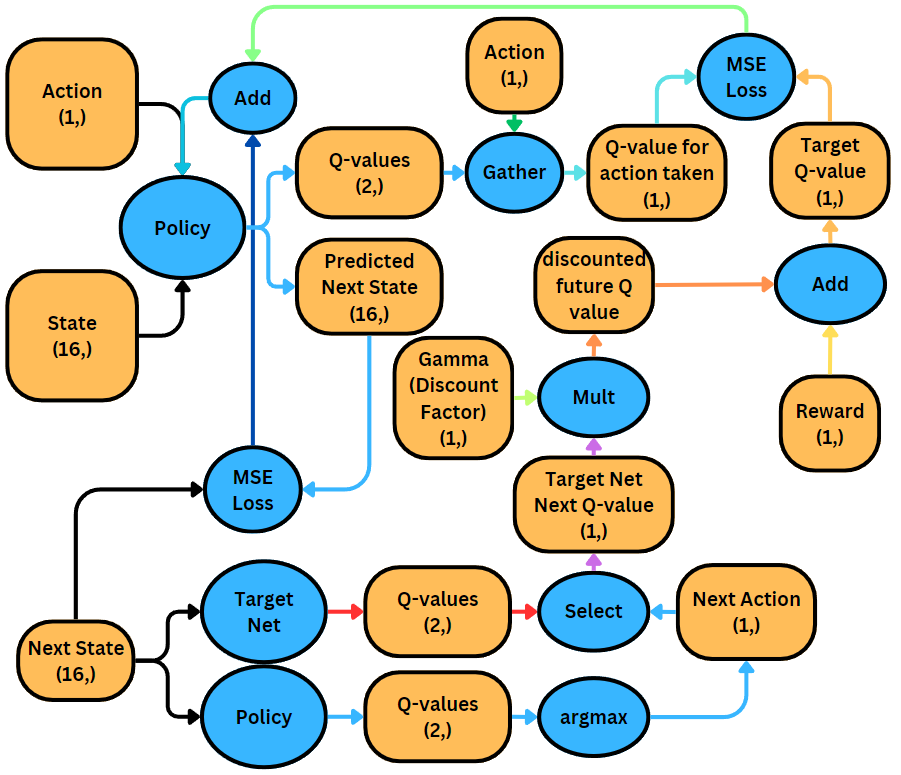
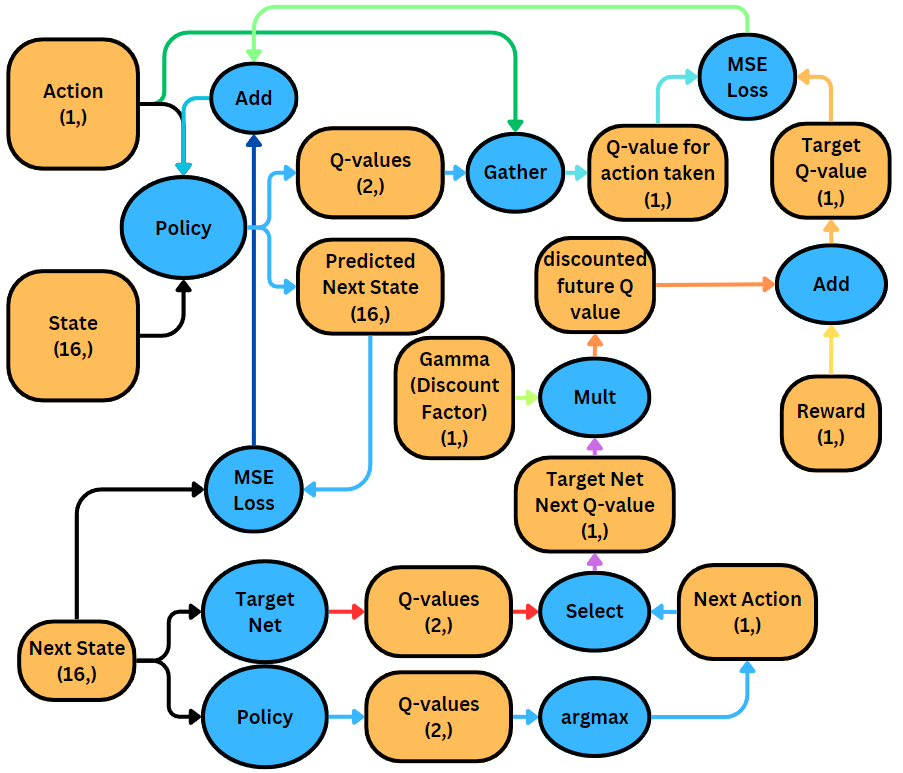
Updated readme and changed training_graph.png

diff --git a/README.md b/README.md
@@ -20,8 +20,6 @@ The state, action, next state, and reward are saved into a transition, to be use
 ![Training Graph](images/training_graph.png)
 Given a previous transition, containing state, action, next state, and reward. The model is a Double-DQN where the policy network predicts the next action, and the target net, which is essentially an infrequently-copied copy of the policy network. The target net predicts the Q-value of the predicted action for training stability.
 
-Note: Action (top left), and Action (top center) are the same.
-
 ## Graphs
 ![Graphs](images/full_screenshot.png)
 
